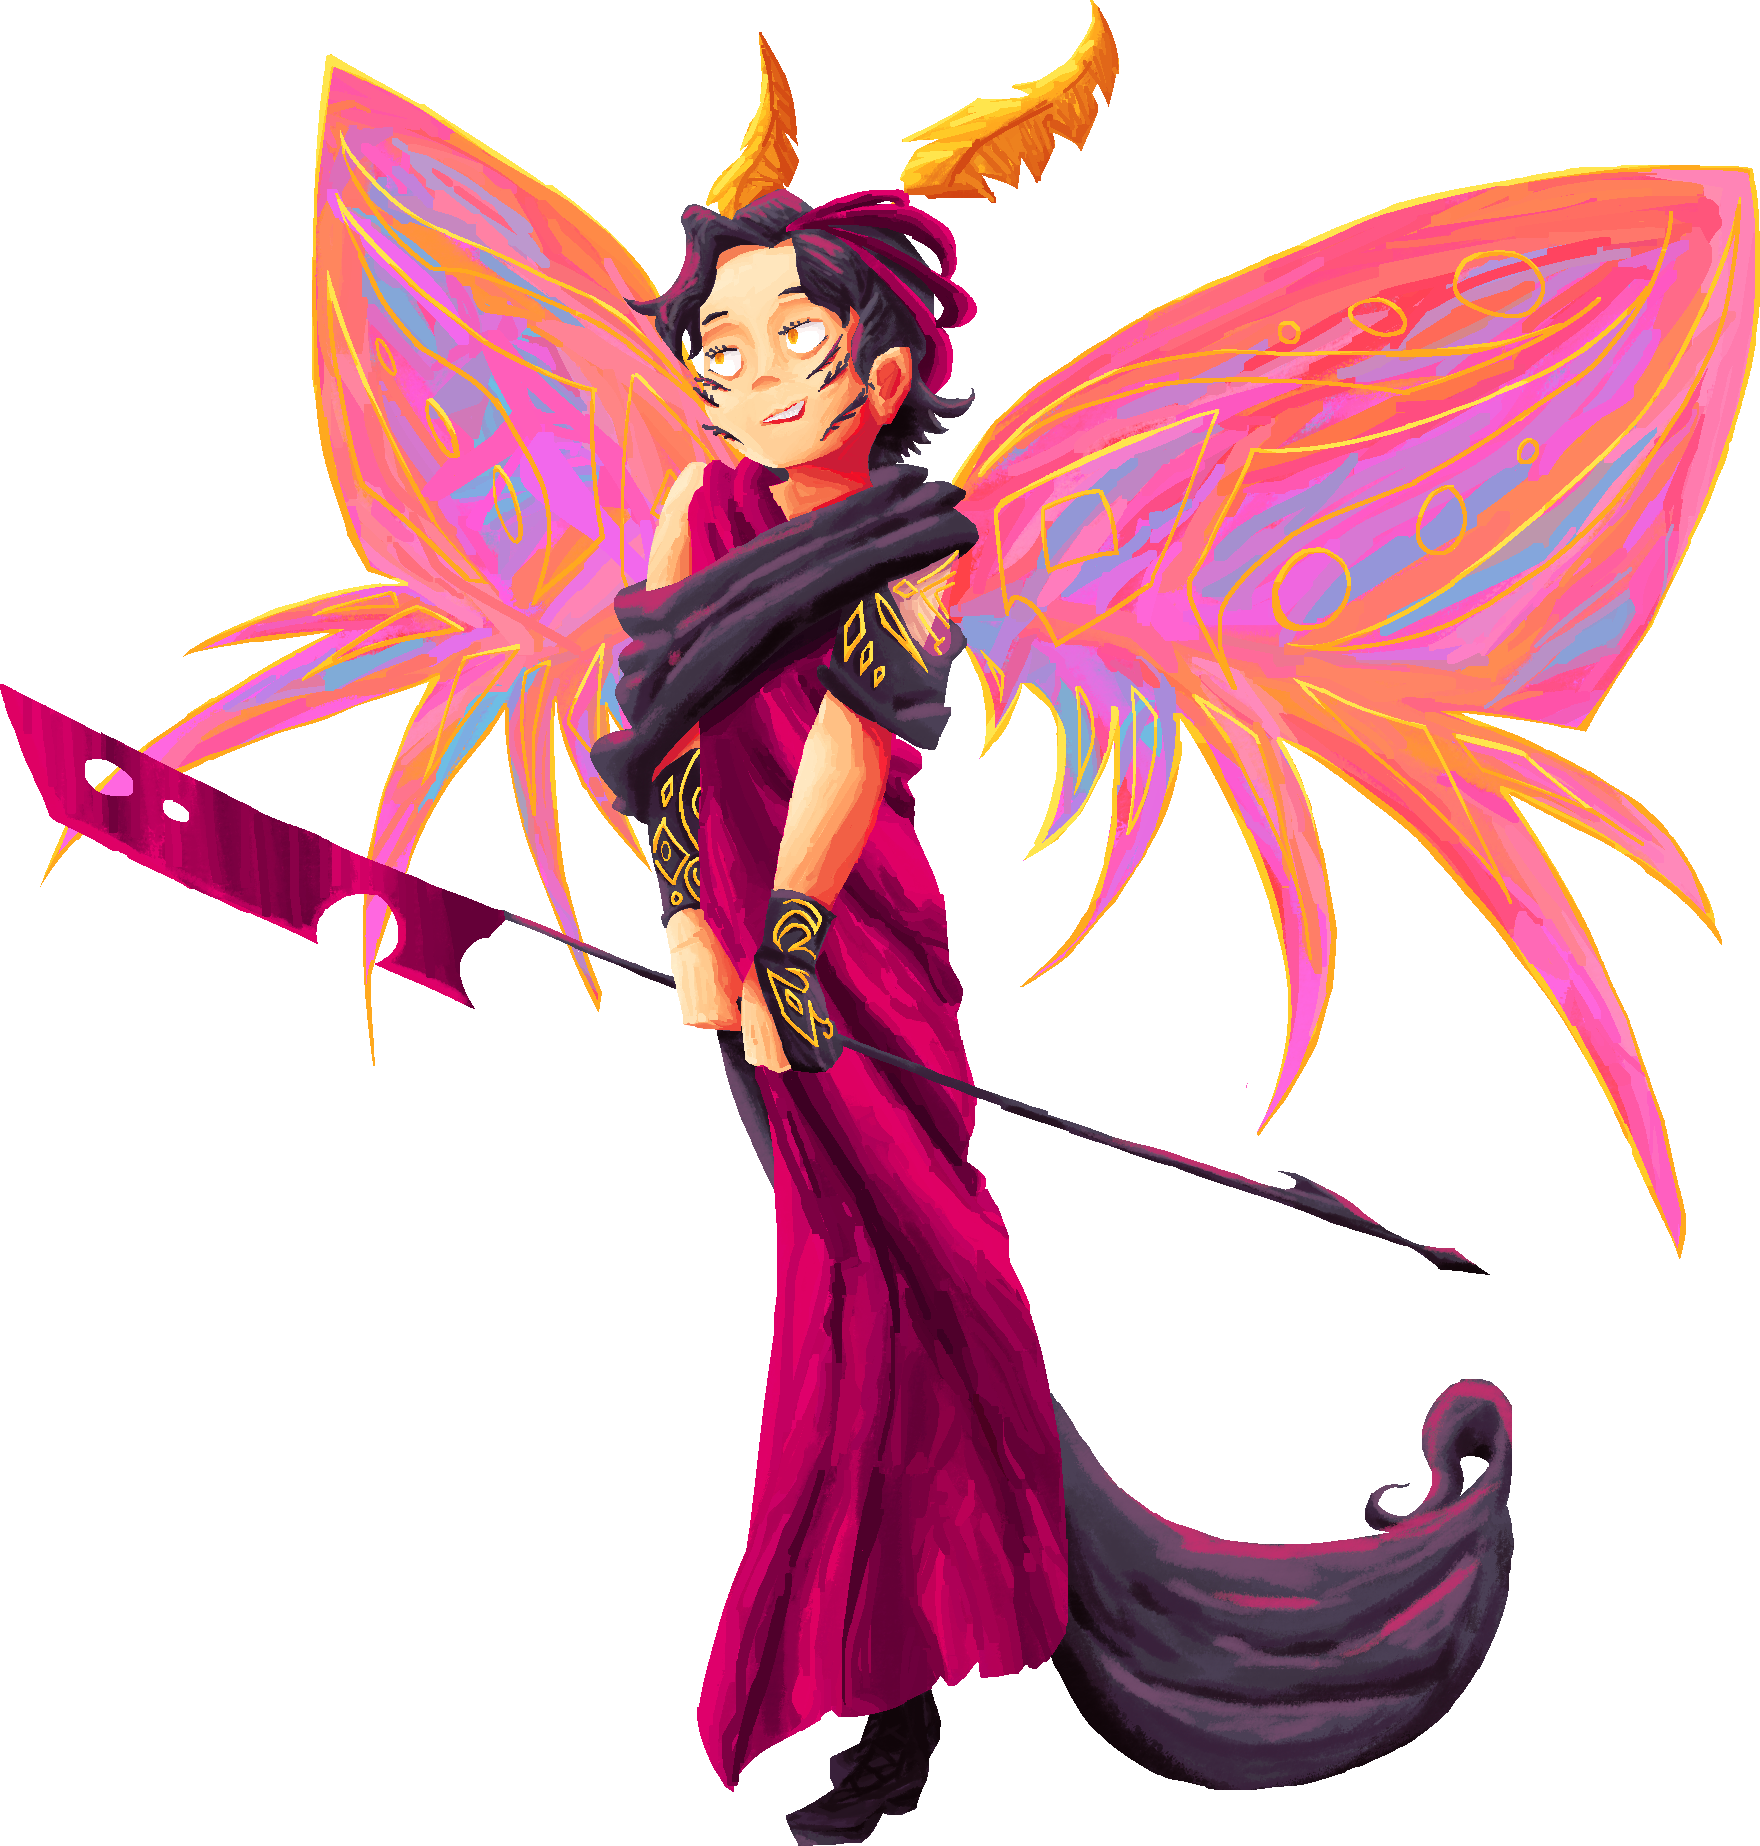
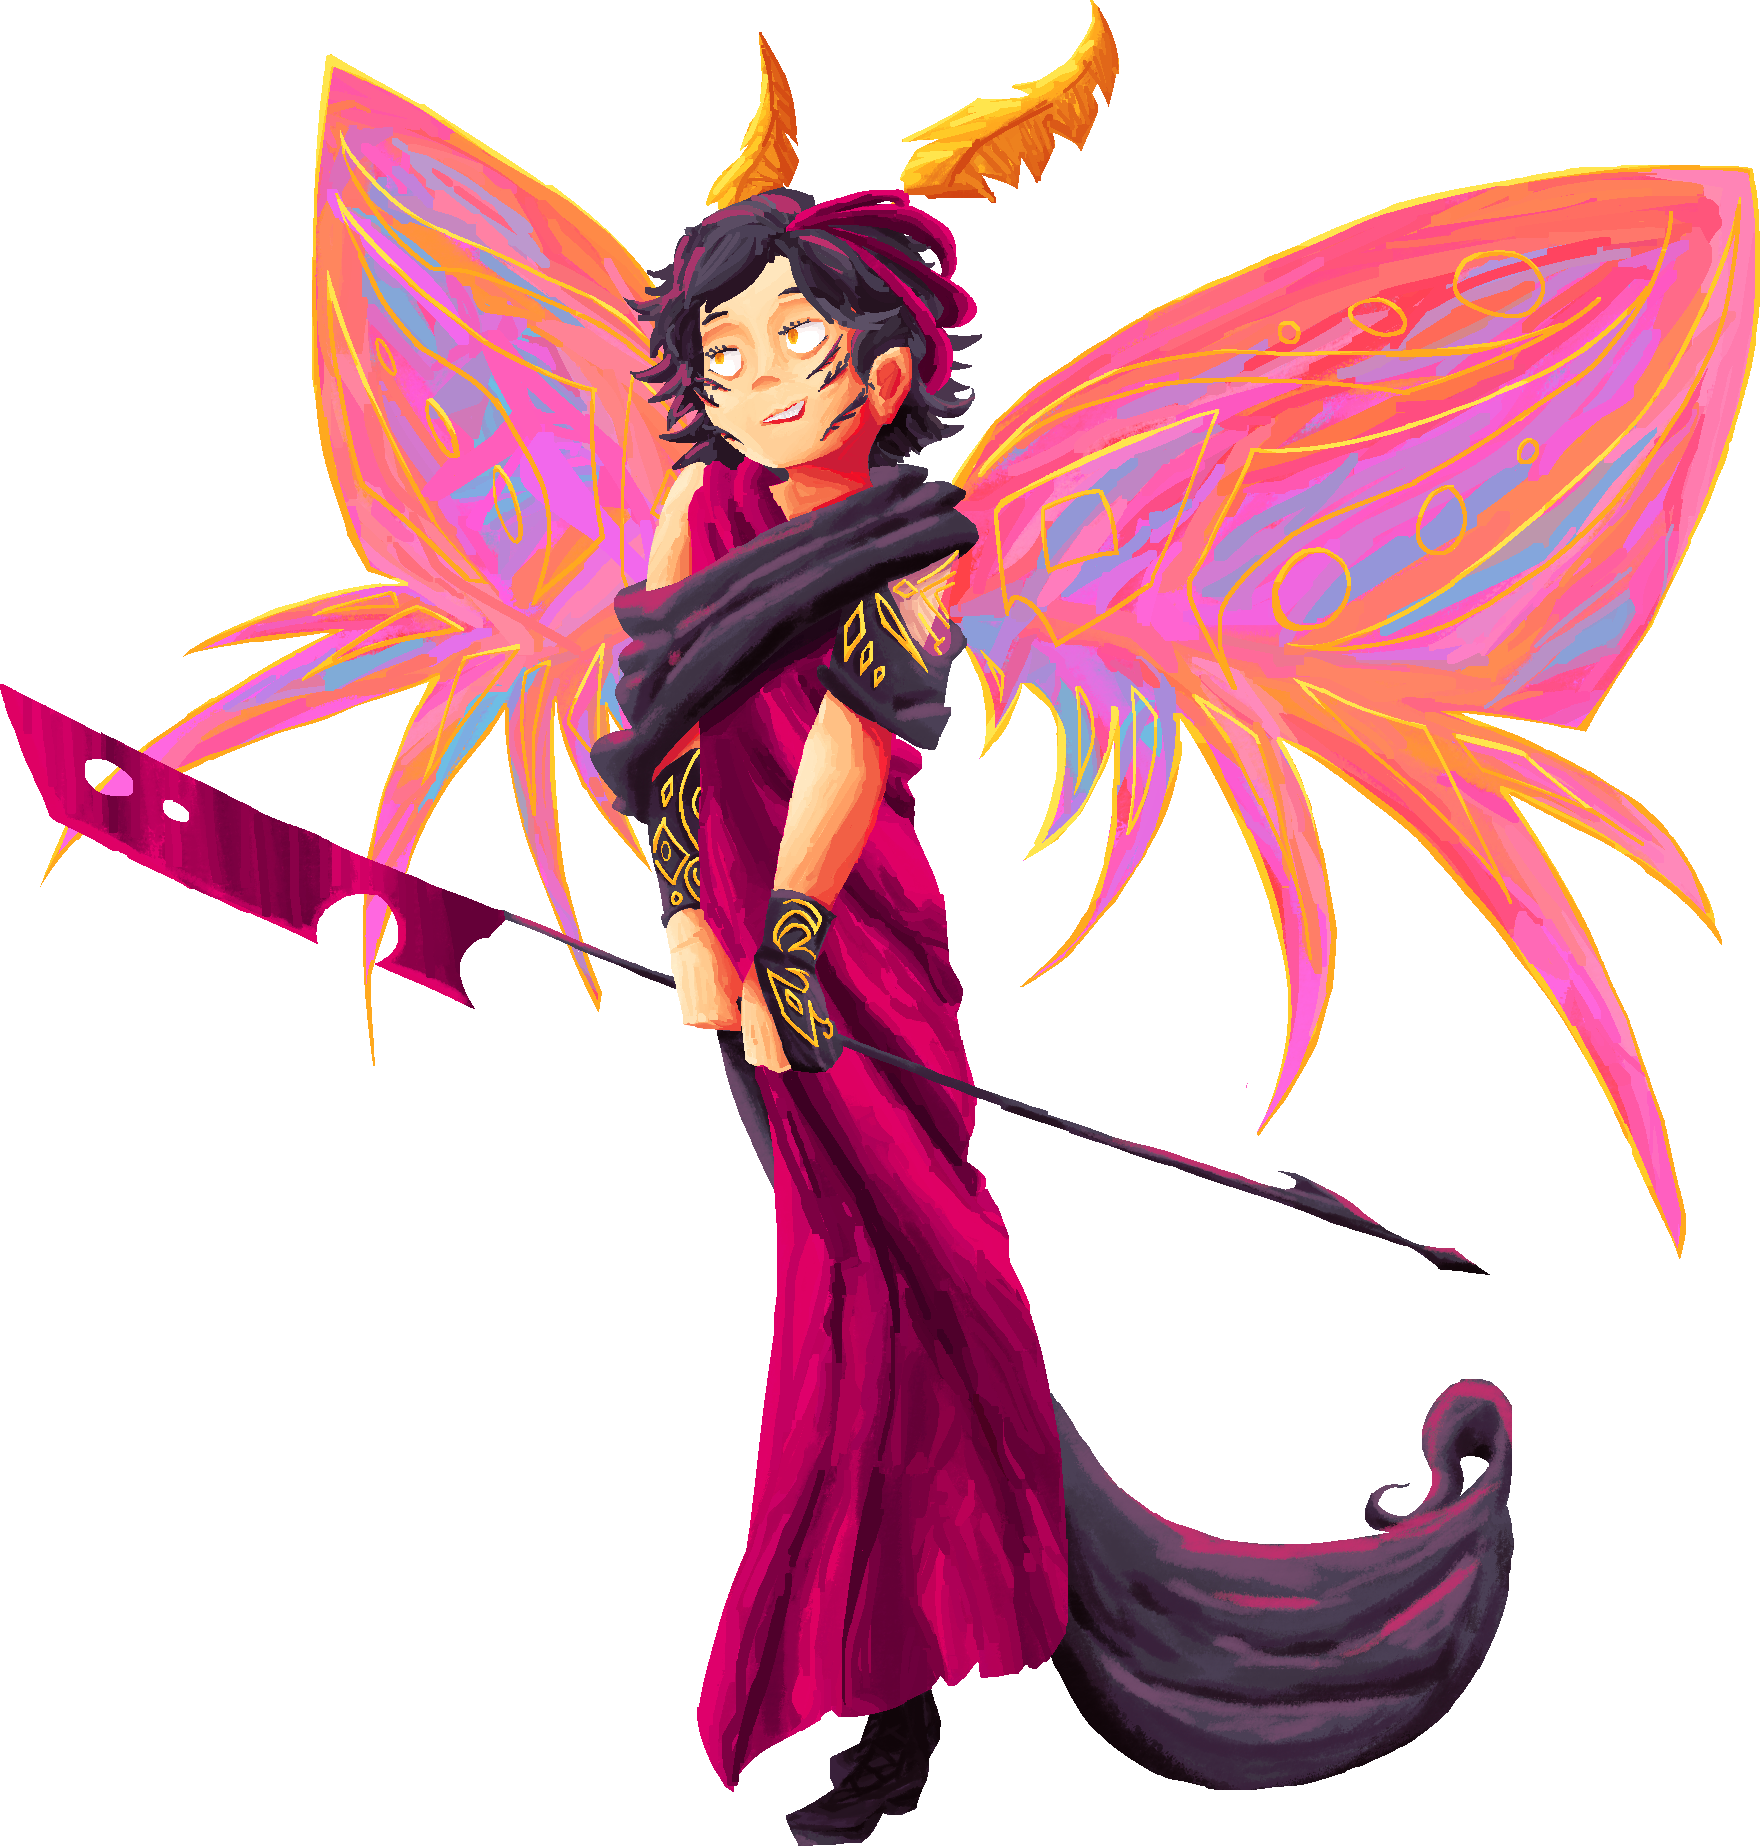
bia has concept art now and castell hair

Changed region(s): [[0.3438, 0.0926, 0.5625, 0.2779]]

diff --git a/docs/Art/COA Concept Art.md b/docs/Art/COA Concept Art.md
@@ -18,6 +18,14 @@ Illustrations for [Chronicles of the Aethein](https://ratseerofrattesse.github.i
     <p>You barely reading-comprehended that last sentence, but the mysteries only deepen when she's saddled with the duty of defeating the interdimensional space rats currently invading her country. Her ill-fated mentor character quickly lore drops a bunch of weird shit like being descended from a deity and copious other confusions (what the heck does he mean 'Main Character'???). Even if she pulls off stopping the rat cultists, fate's still got plenty left to do before she can rest well.</p>
 </div>
 
+![](../assets/img/art/COA%20concept%20art/bia.png){ data-title="Biaphon Hastor" data-description=".bia" data-caption-position="right"}
+
+<div class="glightbox-desc bia">
+    <p><em>01/15/2026</em></p>
+    <p>Bia is any party's comedic backbone; she will never stop laughing. Get past her big frontal personality however, and she's quite approachable. Never suspicious of anyone or anything, Bia has a high EQ and a detrimental lack of distrust and worry. However, she has been more agitated than usual as of late - it's about time she and her sister sought harder challenges in order to ascend to t-eight, but Ari won't budge out of her comfortable cot in Javenshard. So when Ari comes home ravaged by a hungry overranked demon, Bia convinces her to head to the nearest high-ranked city to request help. Ari quickly finds the trip spiralling out of control when Bia invites not only fellow adventurer Lloyd, but also their noncombatant friends.</p>
+    <p>Desperate to do something different for once, Bia takes to the journey with enthusiasm, but quickly finds it more than she bargained for as the demon in question turns out to be just as enthusiastic in its pursuit of Ari. Burdened by the guilt of leading her friends into a dangerous and very much preventable situation, she's determined to turn it around and make something positive out of it.</p>
+</div>
+
 ![](../assets/img/art/COA%20concept%20art/halos.png){ data-title="Halos" data-description=".halos" data-caption-position="right"}
 
 <div class="glightbox-desc halos">
